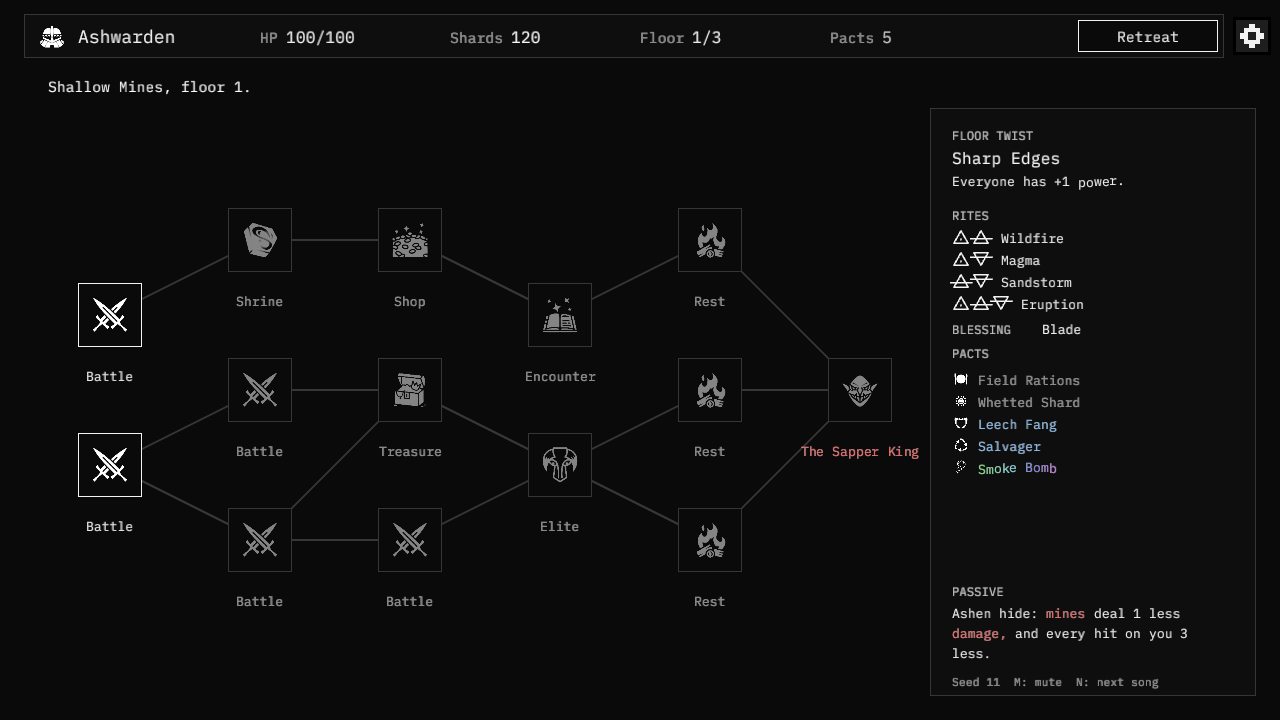
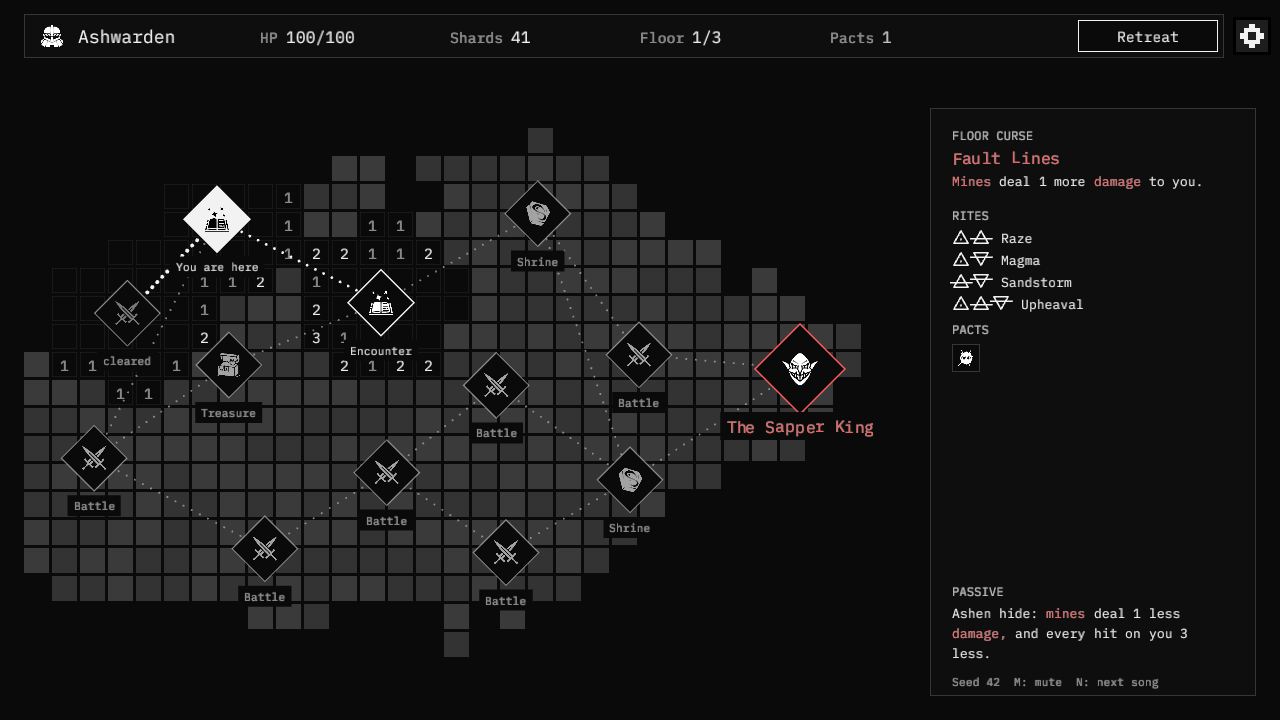
New floor map screenshot in the README

diff --git a/README.md b/README.md
@@ -201,10 +201,11 @@ shards and a choice of one pact from three. A run is **three floors**, each endi
 the third boss to clear the expedition, which opens the next descent and records your best floor
 for that hero.
 
-![A floor map: the path splits across battles, a shrine, a shop, treasure, an encounter and an elite, then rest sites before the boss](docs/screenshots/map.png)
+![A floor map: a patch of The Below with rooms as diamonds on a dotted route, the ground turned over round the rooms already visited, and the boss at the far end](docs/screenshots/map.png)
 
-Each floor is a map of paths. Pick a node in the next column to move on. The first column is always
-a battle. The side panel shows your rites, your
+Each floor is a map of paths, drawn as a closer look at The Below. Pick a room the dotted route
+leads to from where you stand. The ground lies turned over round the rooms you have been in and the
+ones you may enter next. The first rooms are always battles. The side panel shows your rites, your
 blessing and your pacts, plus the floor's **twist**: one random rule for the whole floor that may
 help or hurt.
 
